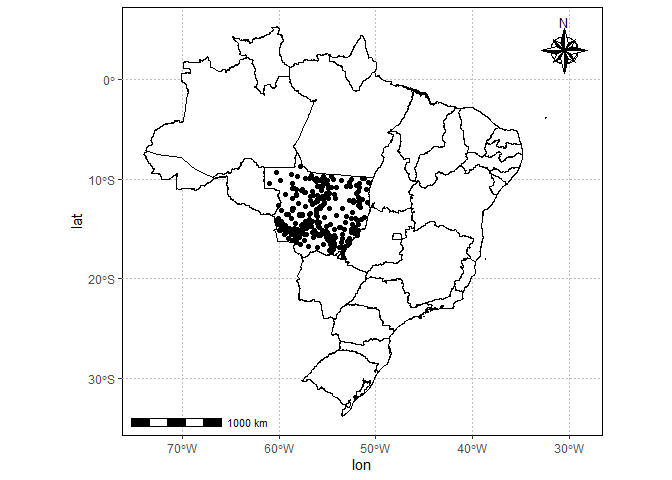
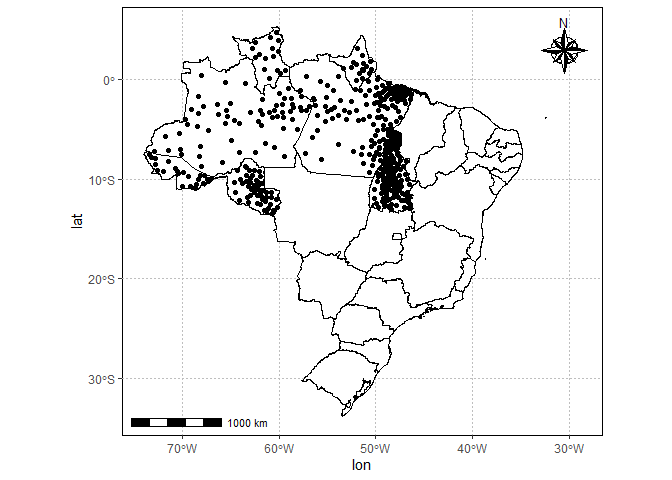
estados classificados

diff --git a/README.md b/README.md
@@ -13,7 +13,6 @@
 library(tidyverse)
 library(geobr)
 source("R/gafico.R")
-source("R/my-function.R")
 ```
 
 ## Mesclando base com ids
@@ -21,8 +20,8 @@ source("R/my-function.R")
 ### Carregando as bases de dados
 
 ``` r
-brazil_ids <- read_rds("data/df_nome.rds")
 emissions_sources <- read_rds("data/emissions_sources.rds")
+states <- read_rds("data/states.rds")
 ```
 
 ### Lendo o polígono dos estados
@@ -34,18 +33,11 @@ states  %>%
           size=.15, show.legend = FALSE) +
   geom_point(
     data = emissions_sources %>%
-      filter(sigla_uf == "MT",
-             #year == 2020
+      filter(sigla_uf %in% c("AC","AM","PA","AP","RR","RO","TO"),
+             year == 2020
              ),
     aes(lon,lat)) +
   tema_mapa()
 ```
 
 ![](README_files/figure-gfm/unnamed-chunk-4-1.png)<!-- -->
-
-``` r
-emissions_sources %>%
-      filter(source_name == "Rio Claro") %>% 
-  pull(sigla_uf) %>% unique()
-#> [1] "Other" "SP"
-```
